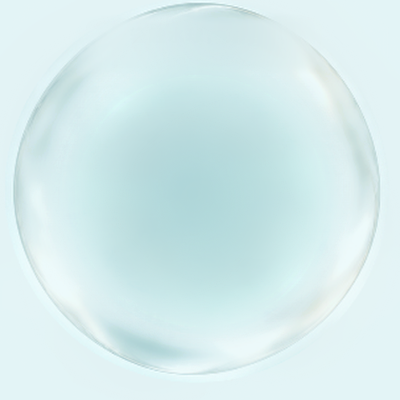
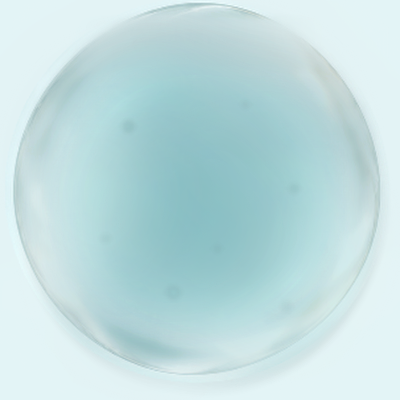
feat: refine M1 neutral water material

diff --git a/verification/continuous-water-prototype/index.html b/verification/continuous-water-prototype/index.html
@@ -2,6 +2,6 @@
 <html lang="zh-CN"><head><meta charset="utf-8"><meta name="viewport" content="width=device-width,initial-scale=1"><title>MindIsle · M1 Neutral Water Material</title>
 <style>:root{font-family:-apple-system,BlinkMacSystemFont,"PingFang SC","Helvetica Neue",sans-serif;color:#315c65;background:#f4fafb}*{box-sizing:border-box}body{margin:0;padding:24px}.shell{max-width:1180px;margin:auto}.head h1{margin:0;font-size:21px;font-weight:500;letter-spacing:.07em}.head p{margin:8px 0 22px;color:#78969d;font-size:12px}.layout{display:grid;grid-template-columns:minmax(420px,1fr) 310px;gap:18px}.panel{background:rgba(255,255,255,.8);border:1px solid #dcecef;border-radius:18px;padding:16px;box-shadow:0 12px 36px rgba(54,104,112,.06)}.stage{min-height:520px;border-radius:14px;background:radial-gradient(circle at 50% 45%,#fbffff,#eaf4f5 70%);display:grid;place-items:center;overflow:hidden;position:relative}.stage img{width:min(100%,520px);height:auto;display:block}.badge{position:absolute;left:14px;top:14px;padding:6px 9px;border:1px solid #cfe3e6;border-radius:999px;background:#f9fdfd;color:#6c9096;font-size:11px;letter-spacing:.08em}.controls h2,.compare h2{margin:0;font-size:13px;font-weight:500;letter-spacing:.1em}.controls label{display:block;margin:13px 0;color:#5d8289;font-size:12px}.controls input{margin-right:7px;accent-color:#5b9da3}.readout{display:grid;gap:8px;margin-top:22px;padding-top:16px;border-top:1px solid #e2eef0}.row{display:flex;justify-content:space-between;gap:12px;font-size:12px}.row span:first-child{color:#86a1a7}.row span:last-child{color:#476f77;text-align:right}.note{margin:18px 0 0;color:#78969d;font-size:12px;line-height:1.65}.compare{margin-top:0;margin-bottom:18px}.compare-grid{display:grid;grid-template-columns:repeat(4,1fr);gap:10px;margin-top:12px}.compare figure{margin:0}.compare img{display:block;width:100%;aspect-ratio:1;object-fit:cover;border-radius:12px;background:#edf5f6;border:1px solid #e0edef}.compare figcaption{margin-top:7px;color:#648991;font-size:11px;line-height:1.4}.status{margin-top:16px;padding:12px;border-radius:12px;background:#f0f8f7;color:#4b7778;font-size:12px;line-height:1.6}.status strong{font-weight:500;color:#2f7c71}@media(max-width:820px){body{padding:16px}.layout{grid-template-columns:1fr}.stage{min-height:430px}.compare-grid{grid-template-columns:repeat(2,1fr)}}</style></head>
 <body><main class="shell"><header class="head"><h1>MindIsle · M1 Neutral Water Material</h1><p>静态材质研究页：无 core、无 formation、无 cavity、无 directional pose、无 timing / moving / production 逻辑。</p></header>
-<section class="panel compare"><h2>REFERENCE REVIEW · 同一视口 / 同一背景</h2><p class="note">所有 Final Art、K2、D K0 与 context image 都是视觉 reference，不是 shader source、carrier raw input 或 M1 通过结论。<a href="references/provenance.json">provenance.json</a> 记录原路径、hash、身份和使用边界。</p><h3>Material Authority</h3><div class="compare-grid"><figure><img src="references/final-art-025.png" alt="Final Art 0.25"><figcaption>FINAL_ART_025 · PRIMARY MATERIAL RICHNESS REFERENCE</figcaption></figure><figure><img src="references/final-art-050.png" alt="Final Art 0.50"><figcaption>FINAL_ART_050 · DEPTH_THICKNESS_CLOUDY_STRUCTURE_REFERENCE</figcaption></figure><figure><img src="references/final-art-075.png" alt="Final Art 0.75"><figcaption>FINAL_ART_075 · MATURE MATERIAL UPPER-BOUND · POSE CONTAMINATION = HIGH</figcaption></figure><figure><img src="references/frozen-k2-final-art.png" alt="Frozen K2 Final Art"><figcaption>FROZEN_K2_FINAL_ART · FINAL OPTICAL ENDPOINT AUTHORITY · ENDPOINT ONLY</figcaption></figure></div><h3>Neutral Restraint</h3><div class="compare-grid"><figure><img src="references/neutral-restraint-d-k0.png" alt="Neutral Restraint D K0"><figcaption>NEUTRAL_RESTRAINT_D_K0 · NEUTRAL_RESTRAINT_REFERENCE · NOT MATERIAL RICHNESS AUTHORITY</figcaption></figure></div><h3>Current Experiment</h3><div class="compare-grid"><figure><img src="m1-neutral-hero.png" alt="New Neutral Material"><figcaption>CURRENT_NEUTRAL_MATERIAL · EXISTING EXPERIMENTAL OUTPUT · REVIEW AGAINST CORRECTED FINAL-ART REFERENCES</figcaption></figure></div><h3>Context</h3><div class="compare-grid"><figure><img src="references/final-art-five-frame.png" alt="Final Art Five Frame"><figcaption>FINAL_ART_FIVE_FRAME · SEQUENCE CONTEXT REFERENCE · NOT SHADER SOURCE</figcaption></figure><figure><img src="references/final-art-close-strip.png" alt="Final Art Close Strip"><figcaption>FINAL_ART_CLOSE_STRIP · CLOSE SEQUENCE CONTEXT REFERENCE · NOT SHADER SOURCE</figcaption></figure></div></section>
-<div class="layout"><section class="panel"><div class="stage"><span class="badge">NEUTRAL MATERIAL · STATIC</span><img id="materialStage" src="m1-neutral-hero.png" alt="neutral water material hero"></div></section><aside class="panel controls"><h2>MATERIAL STUDY</h2><label><input type="radio" name="study" value="m1-neutral-hero.png" checked>Current Neutral Material · existing experimental output</label><label><input type="radio" name="study" value="m1-neutral-source.png">Neutral source · volume + depth</label><label><input type="radio" name="study" value="material-carrier-a.png">Carrier A · neutral volume</label><label><input type="radio" name="study" value="material-carrier-b.png">Carrier B · sparse water detail</label><label><input type="radio" name="study" value="material-carrier-c.png">Carrier C · thickness / optical</label><div class="readout"><div class="row"><span>reference basis</span><span>corrected Final Art package</span></div><div class="row"><span>silhouette</span><span>01 outer film · formal</span></div><div class="row"><span>carriers</span><span>3 derived responsibilities</span></div><div class="row"><span>render passes</span><span>1 static study</span></div><div class="row"><span>framebuffers</span><span>0</span></div><div class="row"><span>core / formation</span><span>disabled</span></div><div class="row"><span>procedural noise</span><span>breakup only · low weight</span></div></div><p class="note">外膜保持 formal silhouette；内部材质由中和后的低频 volume、厚度光学与稀疏 detail carrier 组成。当前 output 未因 reference correction 被 retune。</p><div class="status"><strong>MATERIAL FAMILY = AWAITING HUMAN REVIEW AGAINST CORRECTED FINAL-ART REFERENCES</strong><br>NEUTRAL POSE = AWAITING HUMAN REVIEW<br>TECHNICAL STRUCTURE = PASS<br>READY_FOR_M2 = NO</div></aside></div></main>
-<script>(()=>{const stage=document.querySelector('#materialStage');document.querySelectorAll('input[name=study]').forEach(el=>el.addEventListener('change',()=>{stage.src=el.value;stage.alt=el.parentElement.textContent.trim()}));window.__M1_NEUTRAL__={inspect:()=>({state:'static',cores:false,formation:false,cavity:false,directionalFlow:false,passes:1,framebuffers:0,carriers:['neutral-volume','thickness-optical','sparse-detail'],currentNeutralMaterial:'EXISTING_EXPERIMENTAL_OUTPUT',reviewBasis:'CORRECTED_FINAL_ART_REFERENCES',materialFamily:'AWAITING_HUMAN_REVIEW_AGAINST_CORRECTED_FINAL_ART_REFERENCES',neutralPose:'AWAITING_HUMAN_REVIEW',readyForHumanReview:true,readyForM2:false})}})();</script></body></html>
+<section class="panel compare"><h2>REFERENCE REVIEW · 同一视口 / 同一背景</h2><p class="note">所有 Final Art、K2、D K0 与 context image 都是视觉 reference，不是 shader source、carrier raw input 或 M1 通过结论。<a href="references/provenance.json">provenance.json</a> 记录原路径、hash、身份和使用边界。</p><h3>Material Authority</h3><div class="compare-grid"><figure><img src="references/final-art-025.png" alt="Final Art 0.25"><figcaption>FINAL_ART_025 · PRIMARY MATERIAL RICHNESS REFERENCE</figcaption></figure><figure><img src="references/final-art-050.png" alt="Final Art 0.50"><figcaption>FINAL_ART_050 · DEPTH_THICKNESS_CLOUDY_STRUCTURE_REFERENCE</figcaption></figure><figure><img src="references/final-art-075.png" alt="Final Art 0.75"><figcaption>FINAL_ART_075 · MATURE MATERIAL UPPER-BOUND · POSE CONTAMINATION = HIGH</figcaption></figure><figure><img src="references/frozen-k2-final-art.png" alt="Frozen K2 Final Art"><figcaption>FROZEN_K2_FINAL_ART · FINAL OPTICAL ENDPOINT AUTHORITY · ENDPOINT ONLY</figcaption></figure></div><h3>Neutral Restraint</h3><div class="compare-grid"><figure><img src="references/neutral-restraint-d-k0.png" alt="Neutral Restraint D K0"><figcaption>NEUTRAL_RESTRAINT_D_K0 · NEUTRAL_RESTRAINT_REFERENCE · NOT MATERIAL RICHNESS AUTHORITY</figcaption></figure></div><h3>Current Experiment</h3><div class="compare-grid"><figure><img src="m1-neutral-hero.png" alt="New Neutral Material"><figcaption>NEW_NEUTRAL · REFINED M1 MATERIAL HERO · AWAITING HUMAN REVIEW</figcaption></figure></div><h3>Context</h3><div class="compare-grid"><figure><img src="references/final-art-five-frame.png" alt="Final Art Five Frame"><figcaption>FINAL_ART_FIVE_FRAME · SEQUENCE CONTEXT REFERENCE · NOT SHADER SOURCE</figcaption></figure><figure><img src="references/final-art-close-strip.png" alt="Final Art Close Strip"><figcaption>FINAL_ART_CLOSE_STRIP · CLOSE SEQUENCE CONTEXT REFERENCE · NOT SHADER SOURCE</figcaption></figure></div></section>
+<div class="layout"><section class="panel"><div class="stage"><span class="badge">NEUTRAL MATERIAL · STATIC</span><img id="materialStage" src="m1-neutral-hero.png" alt="neutral water material hero"></div></section><aside class="panel controls"><h2>MATERIAL STUDY</h2><label><input type="radio" name="study" value="m1-neutral-hero.png" checked>New Neutral · refined M1 material hero</label><label><input type="radio" name="study" value="m1-neutral-source.png">Neutral source · volume + depth</label><label><input type="radio" name="study" value="material-carrier-a.png">Carrier A · neutral volume</label><label><input type="radio" name="study" value="material-carrier-b.png">Carrier B · sparse water detail</label><label><input type="radio" name="study" value="material-carrier-c.png">Carrier C · thickness / optical</label><div class="readout"><div class="row"><span>reference basis</span><span>corrected Final Art package</span></div><div class="row"><span>silhouette</span><span>01 outer film · formal</span></div><div class="row"><span>carriers</span><span>3 derived responsibilities</span></div><div class="row"><span>render passes</span><span>1 static study</span></div><div class="row"><span>framebuffers</span><span>0</span></div><div class="row"><span>core / formation</span><span>disabled</span></div><div class="row"><span>procedural noise</span><span>breakup only · low weight</span></div></div><p class="note">外膜保持 formal silhouette；内部材质由中和后的低频 volume、厚度光学与稀疏 detail carrier 组成。当前 output 已完成一次窄幅材质 polish；未改变 pose、silhouette 或 production path。</p><div class="status"><strong>MATERIAL FAMILY = AWAITING HUMAN REVIEW</strong><br>NEUTRAL POSE = AWAITING HUMAN REVIEW<br>TECHNICAL STRUCTURE = PASS<br>READY_FOR_M2 = NO</div></aside></div></main>
+<script>(()=>{const stage=document.querySelector('#materialStage');document.querySelectorAll('input[name=study]').forEach(el=>el.addEventListener('change',()=>{stage.src=el.value;stage.alt=el.parentElement.textContent.trim()}));window.__M1_NEUTRAL__={inspect:()=>({state:'static',cores:false,formation:false,cavity:false,directionalFlow:false,passes:1,framebuffers:0,carriers:['neutral-volume','thickness-optical','sparse-detail'],currentNeutralMaterial:'REFINED_M1_NEUTRAL_MATERIAL',reviewBasis:'CORRECTED_FINAL_ART_REFERENCES',materialFamily:'AWAITING_HUMAN_REVIEW',neutralPose:'AWAITING_HUMAN_REVIEW',readyForHumanReview:true,readyForM2:false})}})();</script></body></html>

diff --git a/verification/continuous-water-prototype/REPORT.md b/verification/continuous-water-prototype/REPORT.md
@@ -1,45 +1,42 @@
 # M1 — Neutral Water Material
 
-## 0. 实际参考检查
+## 0. 参考与本轮边界
 
-本轮实际打开并检查了以下 self-contained reference package：
+本轮使用已锁定的 self-contained Final Art package：
 
-- [Final Art 0.25](references/final-art-025.png) — **FINAL_ART_025 / PRIMARY MATERIAL RICHNESS REFERENCE**
-- [Final Art 0.50](references/final-art-050.png) — **FINAL_ART_050 / DEPTH_THICKNESS_CLOUDY_STRUCTURE_REFERENCE**
-- [Final Art 0.75](references/final-art-075.png) — **FINAL_ART_075 / MATURE MATERIAL UPPER-BOUND / POSE CONTAMINATION = HIGH**
-- [Frozen K2 Final Art](references/frozen-k2-final-art.png) — **FROZEN_K2_FINAL_ART / FINAL OPTICAL ENDPOINT / ENDPOINT-ONLY**
-- [Neutral Restraint D K0](references/neutral-restraint-d-k0.png) — **NEUTRAL_RESTRAINT_D_K0 / NEUTRAL RESTRAINT ONLY**
-- [Final Art Five Frame](references/final-art-five-frame.png) — **FINAL_ART_FIVE_FRAME / SEQUENCE CONTEXT REFERENCE**
-- [Final Art Close Strip](references/final-art-close-strip.png) — **FINAL_ART_CLOSE_STRIP / CLOSE SEQUENCE CONTEXT REFERENCE**
+- `FINAL_ART_025`：主要材质丰富度参考；
+- `FINAL_ART_050`：深度、厚度和 cloudy structure 参考；
+- `FINAL_ART_075`：成熟度上限，只看 optical richness，不继承 cavity、swirl、directional density 或 K2 pose；
+- `FROZEN_K2_FINAL_ART`：最终 optical endpoint authority，只用于判断是否属于同一种水；
+- `NEUTRAL_RESTRAINT_D_K0`：安静、平衡和无 pose contamination 的约束。
 
-详细来源、hash、身份和使用边界见 [references/provenance.json](references/provenance.json)。所有图片都是视觉 reference only，不是 shader texture、carrier raw input 或 neutral material source；Final Art 0.75 的 cavity、swirl、directional density、final pose 与 Frozen K2 的 final pose 均禁止直接继承。
+本轮只修改 `verification/continuous-water-prototype/` 中的 M1 experimental material 与 review artifacts。Neutral Pose、formal silhouette、outer membrane、core、formation、deformation、timing、ProductState、production renderer、shader production path 和 frozen v1 assets 均未修改。
 
-## 1. 本轮修改
+## 1. 主要视觉 root cause
 
-- 保留现有 `m1-neutral-hero.png` 与 `m1-neutral-source.png` 的 neutral material study；本次 reference recovery 没有修改 Neutral Material 像素。
-- M1 仍以 `01_outer_film` 的 formal silhouette / 膜面语言为外层边界；本次不引入 core、formation、cavity、directional flow、timing 或 production renderer。
-- Review 页按 Material Authority、Neutral Restraint、Current Experiment、Context 四组展示 tracked reference；New Neutral 仍保持原像素并标为 existing experimental output。
+当前 New Neutral 的外膜和中性轮廓已经正确，最大差距是内部材质过于平均：cloudy mass 没有自然聚散，前后厚度读数偏弱，内部 sparse detail 几乎消失。因此它更像漂亮的半透明介质，还不像 Final Art 家族中有重量和空间层次的一团水。
 
-## 2. Material source / carrier 结构
+## 2. 实际调整
 
-源层边界依据 [waterball-clear-still-source-layer-audit.md](../../docs/analysis/waterball-clear-still-source-layer-audit.md)，产品视觉约束依据 [state-ball-visual-spec.md](../../docs/product/state-ball-visual-spec.md)。
+- **Cloudy mass distribution**：在正式 silhouette 内加入柔和、非对称、低频的聚散质量；没有形成 cavity、swirl、directional flow 或中心 radial pose。
+- **Optical thickness / depth**：增加 front water layer、cloudy internal mass 与 deeper translucent volume 的低对比叠层，保留银白膜面和柔和 rear transmission；没有玻璃球化、强 lens effect 或强 contrast。
+- **Sparse natural detail**：加入少量不同尺度、低对比、近乎消失的内部特征，为未来 deformation 保留可追踪结构；没有 fingerprint、contour、marble、wood grain、repeating bands 或 procedural-noise demo。
 
-- **Carrier A — neutral volume**：`derivedFrom = 02_internal_cyan_volume`；`directSample = false`、`neutralizationRequired = true`，经方向中和后形成主体体积。
-- **Carrier B — sparse water detail**：`derivedFrom = 04_flow_layer / 05_flow_layer / 06_fine_ink_wash`；`directSample = false`、`neutralizationRequired = true`，只保留稀疏低对比 detail vocabulary，不做 full-frame alpha takeover。
-- **Carrier C — thickness / optical**：`derivedFrom = 11_curvature_highlights`；`directSample = false`、`neutralizationRequired = true`，只保留大尺度 broad membrane/refraction vocabulary。
-- `03_boundary_mask`、K2 cavity、pose composite、完整 K2 overlay 和 core source 均未作为 neutral 输入。
+这是两次窄幅视觉调整后的最终 M1 experimental output，没有继续堆叠高频 noise。
 
-当前 Hero 是 verification-only 静态 raster preview；它用于人工材质判断，不是 production asset authority，也不证明 M2 静态 GPU 已完成。
+## 3. Carrier 职责
 
-## 3. Corrected reference basis
+Carrier A/B/C 的职责没有改变：
 
-现有 `m1-neutral-hero.png` 与 `m1-neutral-source.png` 是在旧 reference mapping 背景下产生的 existing experimental output。本轮只替换 visual authority、provenance 与 review basis，不 retune、不删除、也不改变任何 Neutral Material 像素。
+- **Carrier A — neutral volume**：`derivedFrom = 02_internal_cyan_volume`，`directSample = false`，`neutralizationRequired = true`；负责大尺度 cloudy volume。
+- **Carrier B — sparse water detail**：`derivedFrom = 04_flow_layer / 05_flow_layer / 06_fine_ink_wash`，`directSample = false`，`neutralizationRequired = true`；负责稀疏低对比水感细节。
+- **Carrier C — thickness / optical**：`derivedFrom = 11_curvature_highlights`，`directSample = false`，`neutralizationRequired = true`；负责 broad membrane/refraction vocabulary。
+
+没有新增 carrier，也没有把任何 Final Art 或 pose-contaminated layer 作为 raw shader source。
 
 ## 4. Pose contamination / representation blocker
 
-- 没有新增可读的 pose、cavity、swirl 或 directional flow。
-- 历史 source layer 仍带有姿态来源信息，当前仅通过低频/稀疏 projection 使用；combined material 是否已经“同一种水”仍需人工 Gate A 判断。
-- 未发现需要阻塞本轮提交人工视觉验收的 representation blocker；M2 仍按 roadmap 保持 blocked。
+当前 hero 没有可读的 core、formation、cavity、swirl 或 directional flow。Neutral Pose 的冻结约束未被修改；本轮没有发现需要升级为 `MATERIAL REPRESENTATION BLOCKER` 的问题。
 
 ## 5. Evidence
 
@@ -47,12 +44,15 @@
 - **Neutral source**：[`m1-neutral-source.png`](m1-neutral-source.png)
 - **Review page**：[`index.html`](index.html)
 - **Reference provenance**：[`references/provenance.json`](references/provenance.json)
-- **对比**：页面按四组展示 Final Art authority、Neutral Restraint、Current Experiment 与 sequence context；单选项可查看 neutral source 与三类 carrier debug。
-- **运行时检查**：`window.__M1_NEUTRAL__.inspect()` 返回 `state=static`、`cores=false`、`formation=false`、`cavity=false`、`directionalFlow=false`、`passes=1`、`framebuffers=0`。
+- **Evidence state**：[`m1-current-evidence.json`](m1-current-evidence.json)
+
+Review 页面默认把 `FINAL_ART_025`、`FINAL_ART_050`、`FINAL_ART_075`、`FROZEN_K2_FINAL_ART`、`NEUTRAL_RESTRAINT_D_K0` 和 `NEW_NEUTRAL` 放在同一页面，并提供 Carrier A/B/C debug view。`window.__M1_NEUTRAL__.inspect()` 返回 `state=static`、`cores=false`、`formation=false`、`cavity=false`、`directionalFlow=false`、`passes=1`、`framebuffers=0`。
 
 ## 6. Gate result
 
-- TECHNICAL STRUCTURE = **PASS**
-- MATERIAL FAMILY = **AWAITING HUMAN REVIEW AGAINST CORRECTED FINAL-ART REFERENCES**
-- NEUTRAL POSE = **AWAITING HUMAN REVIEW**
-- READY_FOR_M2 = **NO**
+- **MATERIAL SYSTEM STRUCTURE = PASS**
+- **MATERIAL FAMILY = AWAITING HUMAN REVIEW**
+- **NEUTRAL POSE = AWAITING HUMAN REVIEW（冻结约束未改动）**
+- **READY_FOR_M2 = NO**
+
+本轮不进入 M2，等待人工判断 New Neutral 与 Final Art / Frozen K2 是否明显属于同一种水体材质。
